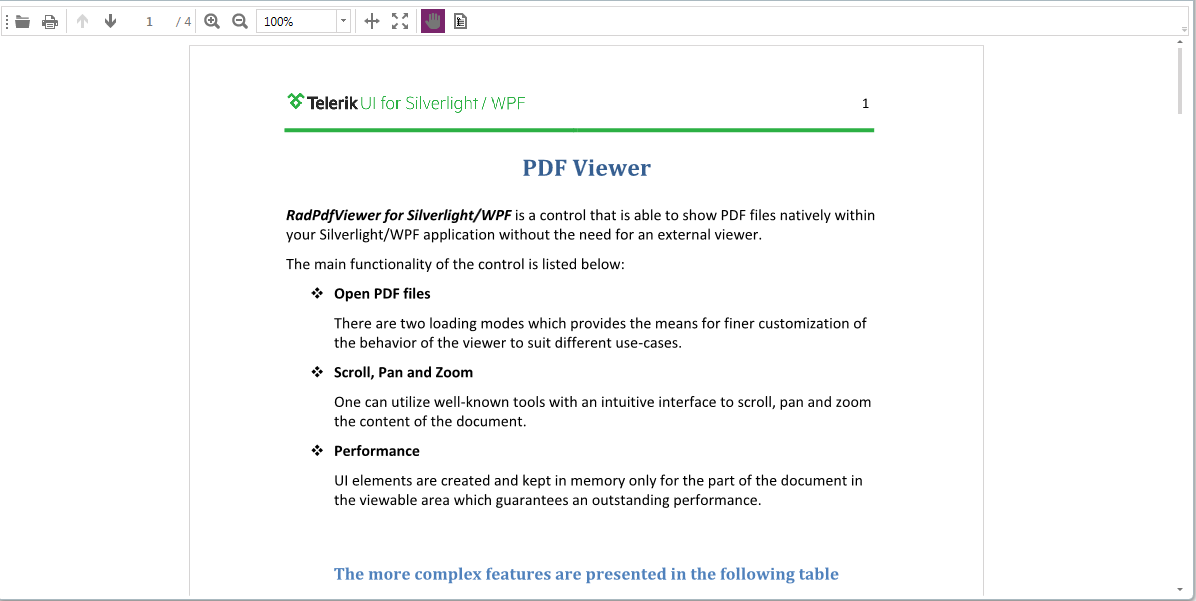
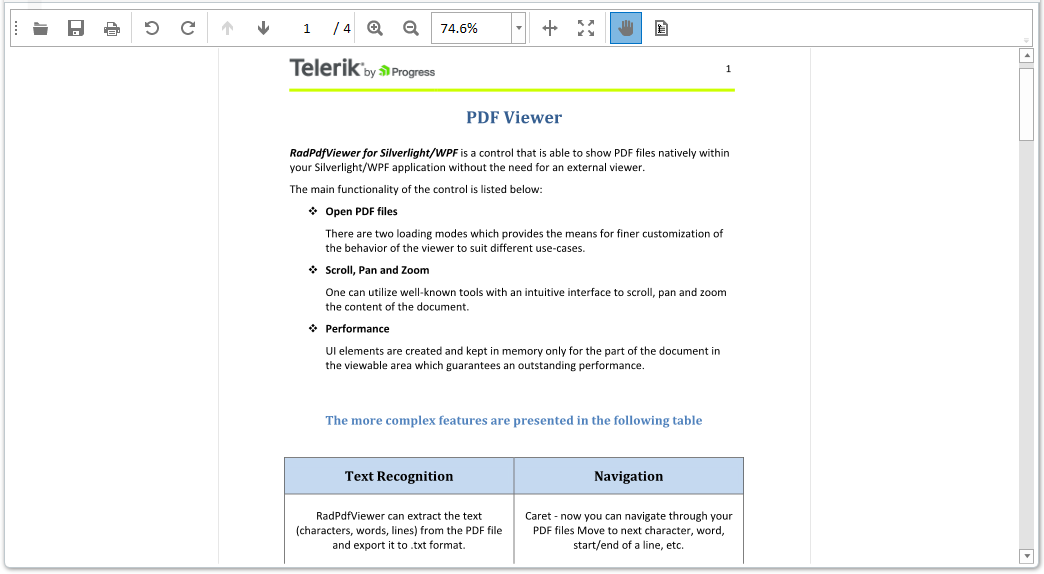
Update Overview topic for PdfViewer

Changed region(s): [[0.0, 0.0, 1.0, 1.0]]

diff --git a/controls/radpdfviewer/overview.md b/controls/radpdfviewer/overview.md
@@ -1,7 +1,7 @@
 ---
 title: Overview
 page_title: Overview
-description: Overview
+description: Discover RadPdfViewer and the functionalities it comes with. 
 slug: radpdfviewer-overview
 tags: overview
 published: True
@@ -9,7 +9,6 @@ position: 0
 ---
 
 # Overview
-
 
 
 {% if site.site_name == 'Silverlight' %}![](images/RadPdfViewer_Overview_sl.png){% endif %}{% if site.site_name == 'WPF' %}![](images/RadPdfViewer_Overview_wpf.png){% endif %}
@@ -21,13 +20,44 @@ __RadPdfViewer__ is a control that is able to display PDF files natively in {% i
 
 ![Rad Pdf Viewer radpdfviewer overview 02](images/RadPdfViewer_radpdfviewer_overview_02.png)
 
-## 
+## Features
 
-The control comes with a predefined UI that is intuitive and provides the means for utilizing the feautres of the control.
+Some of the key features coming out-of-the-box with **RadPdfViewer** are:
 
-Using the UI you can easily zoom in and out, and scroll the document in the viewer. You can also use pan.
+* [**Interactive Forms**]({%slug radpdfviewer-features-interactive-forms%}): The control supports different types of interactive forms and enables the end user to modify their values.
+{% if site.site_name == 'WPF' %}
+* [**Digital Signatures**]({%slug radpdfviewer-features-digital-signature%}): The user can show digitally signed documents and validate the signatures inside. Signing a document is supported as well.
+{% endif %}
+* [**Saving a Document**]({%slug radpdfviewer-save-as%}): When the user modifies the forms in a document or signs it, or just want to create another file from the document, they can use the Save As functionality of the viewer. 
 
-The control utilizes virtualization in order to guarantee good performance with larger documents as well.
+* [**Annotations**]({%slug radpdfviewer-document-model-annotations%}): Full support for Widget and Link annotations. **RadPdfViewer** provides a read-only support for all other types of annotations.
+
+* **Fonts**: Built-in support for TrueType, Type1 and CID fonts.
+
+* [**Create an Image from a PDF Page**]({%slug radpdfviewer-exporting-fixedpage-to-image%}): An API for exporting a PDF document page to an image.
+
+* Working with [positions]({%slug radpdfviewer-text-text-position%}) and modifying the [selection]({%slug radpdfviewer-text-text-selection%}) in the document.
+
+* The control comes with a **predefined UI** that is intuitive and provides the means for utilizing the features of the control. Different dialogs are available as well.
+
+* Using the UI you can easily **zoom in and out**.
+
+* **Scroll** the document in the viewer. 
+
+* You can also use **pan** and **text selection** by specifying a different [viewer mode]({%slug radpdfviewer-viewer-modes%}).
+
+* The control utilizes **virtualization** in order to guarantee good performance with larger documents as well.
+
+* **RadPdfViewer** allows [**printing**]({%slug radpdfviewer-printing%}) of the document loaded in it.
+
+* You can [**rotate**]({%slug radpdfviewer-rotation%}) the document as well.
+
+* [**Context Menu**]({%slug radpdfviewer-context-menu%}) to provide an easy access to several of the features of the control. 
+
+* Extensible support for different stream compression filters. [[Read more]({%slug radpdfviewer-customize-pdf-rendering%})]
+
+* The API provides different options for **extending** and **customizing** the control.
+
 
 ## See Also
 
